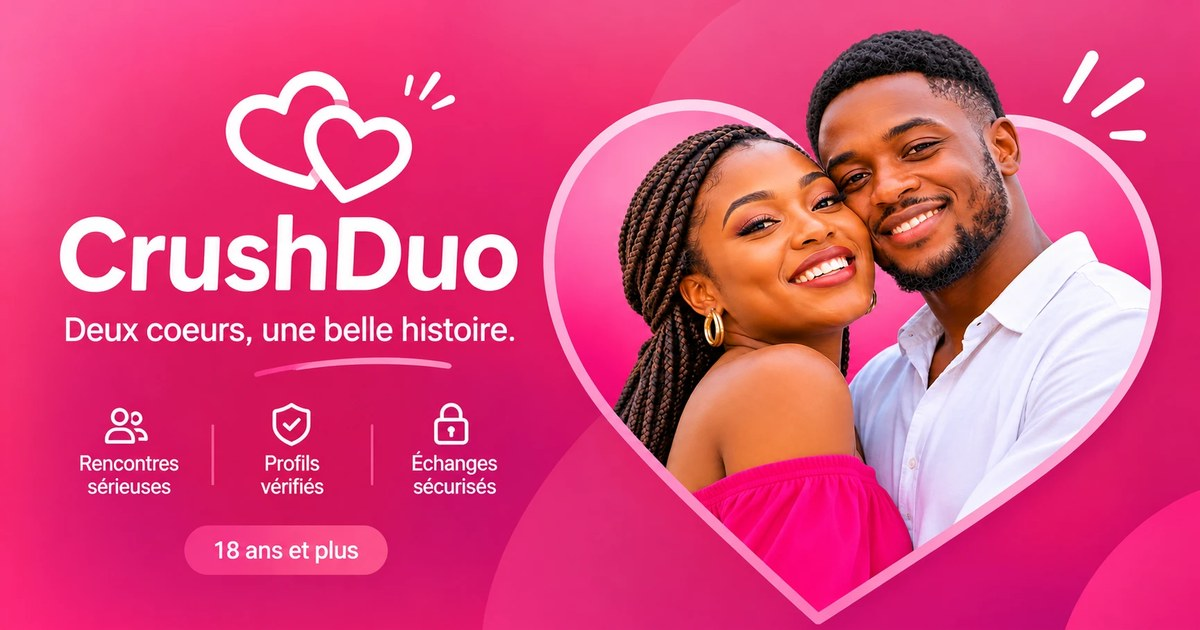
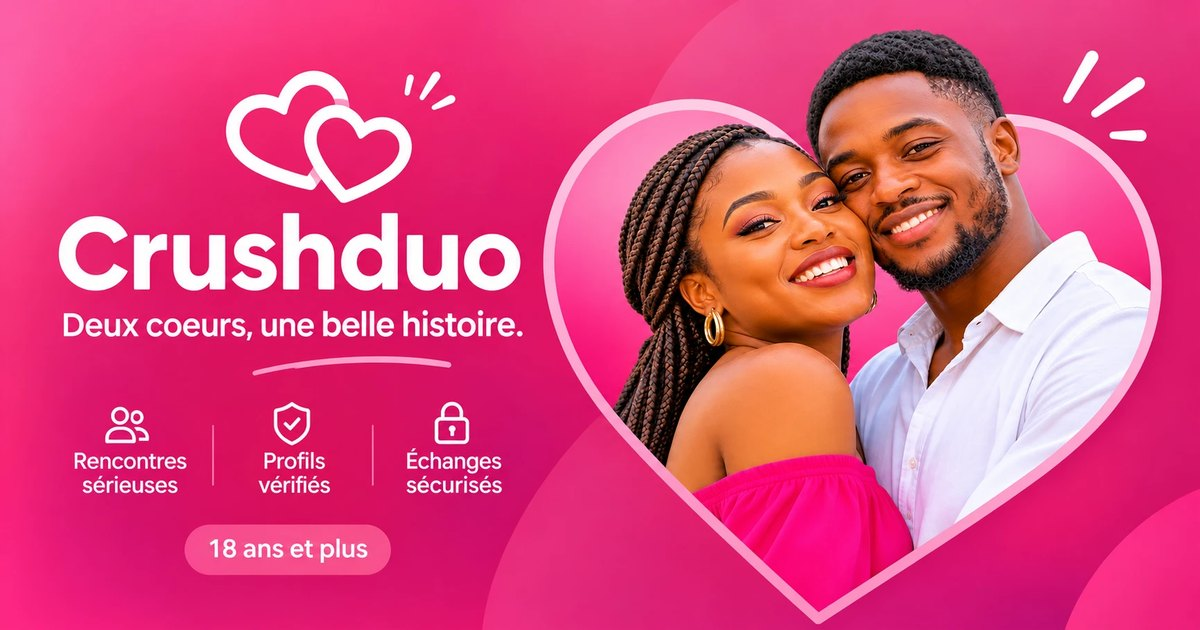
fix(seo): adresse du site par défaut https://crushduo.com dans le Dockerfile du site (aperçu de partage et sitemap annonçaient localhost) ; nouvelle image de partage « Crushduo » (og.jpg, URL versionnée)

diff --git a/apps/web/src/app/[locale]/layout.tsx b/apps/web/src/app/[locale]/layout.tsx
@@ -29,7 +29,7 @@ export async function generateMetadata({ params }: { params: Promise<{ locale: s
     description: t('meta.description'),
     applicationName: 'Crushduo',
     manifest: '/manifest.webmanifest',
-    openGraph: { type: 'website', siteName: 'Crushduo', title: t('meta.title'), description: t('meta.description'), locale: locale === 'en' ? 'en_US' : 'fr_FR', images: [{ url: '/og.jpg', width: 1200, height: 630, type: 'image/jpeg', alt: 'Crushduo — Deux cœurs, une belle histoire' }] },
+    openGraph: { type: 'website', siteName: 'Crushduo', title: t('meta.title'), description: t('meta.description'), locale: locale === 'en' ? 'en_US' : 'fr_FR', images: [{ url: '/og.jpg?v=2', width: 1200, height: 630, type: 'image/jpeg', alt: 'Crushduo — Deux cœurs, une belle histoire' }] },
     twitter: { card: 'summary_large_image', title: t('meta.title'), description: t('meta.description') },
     icons: { icon: [{ url: '/favicon.ico?v=2', sizes: 'any' }, { url: '/favicon-32.png?v=2', sizes: '32x32', type: 'image/png' }, { url: '/icon-192.png?v=2', sizes: '192x192', type: 'image/png' }], apple: '/apple-touch-icon.png?v=2' },
   };
